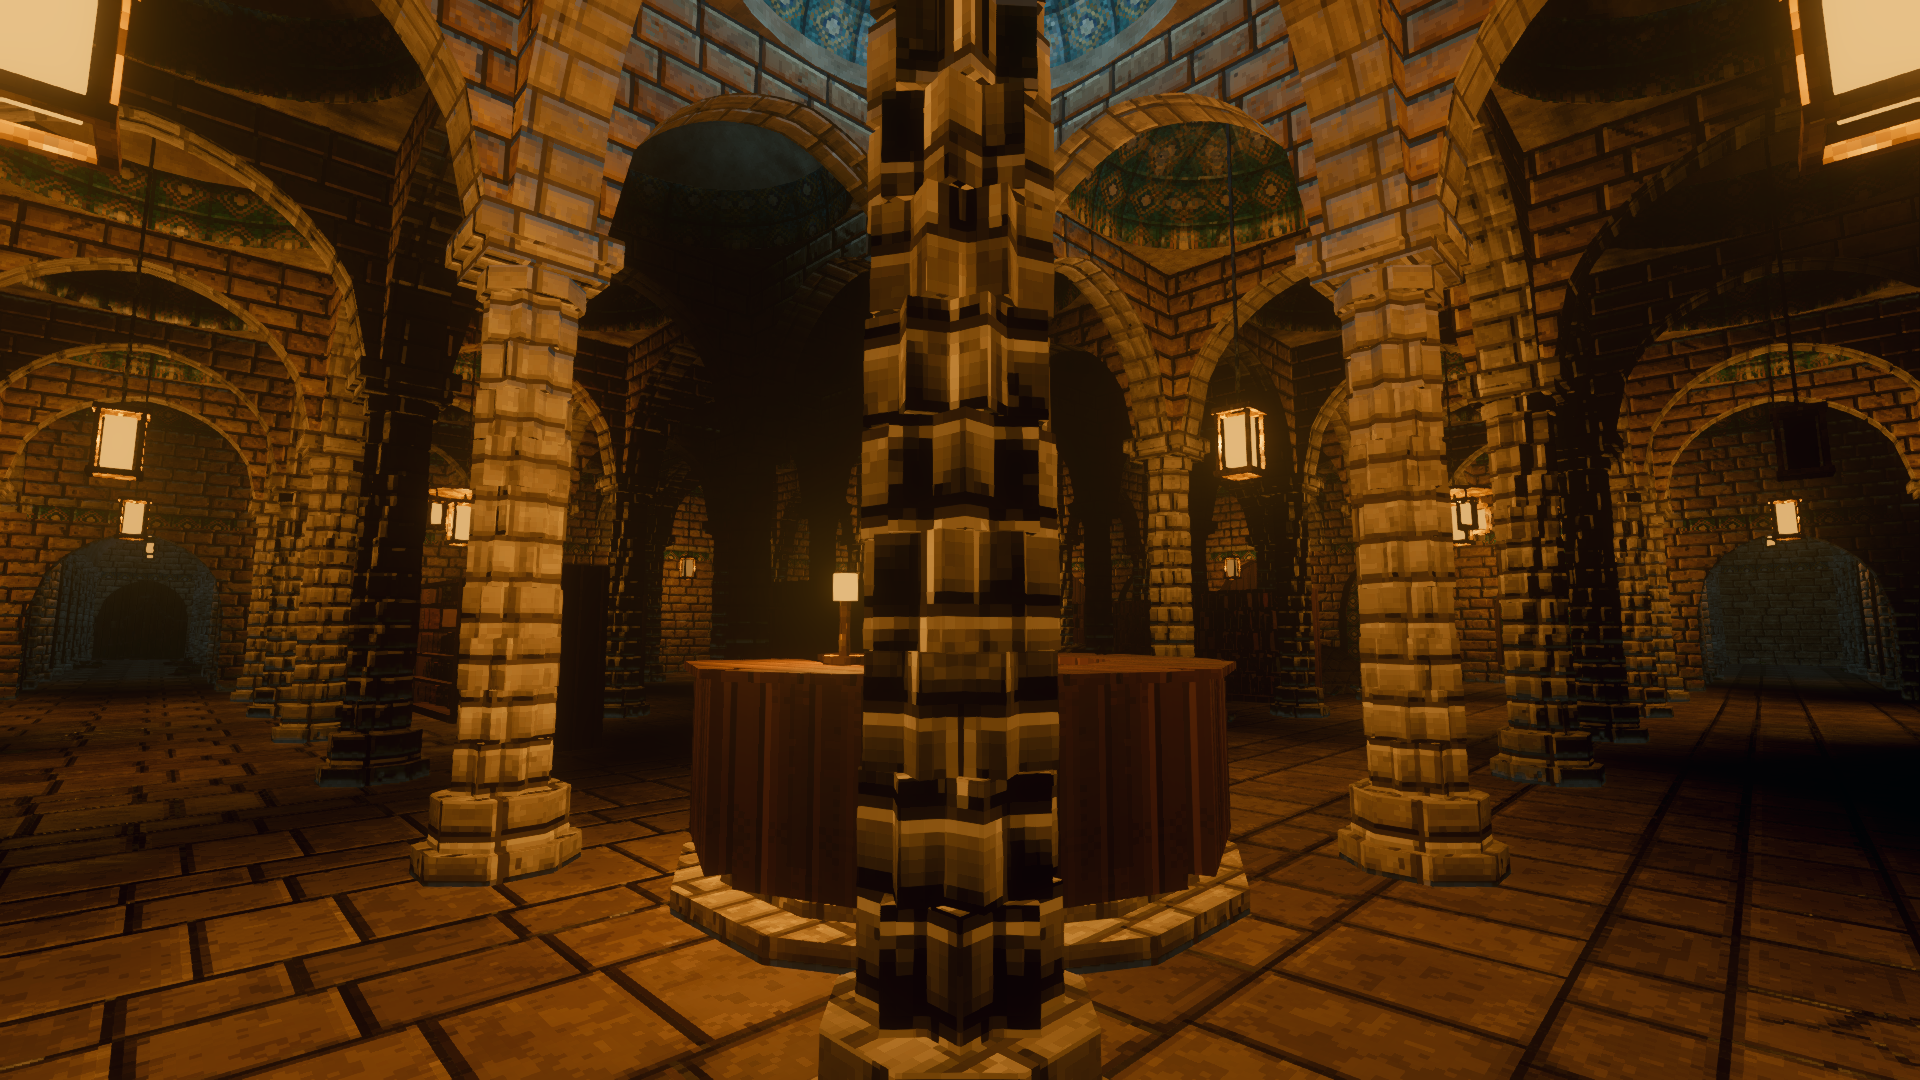
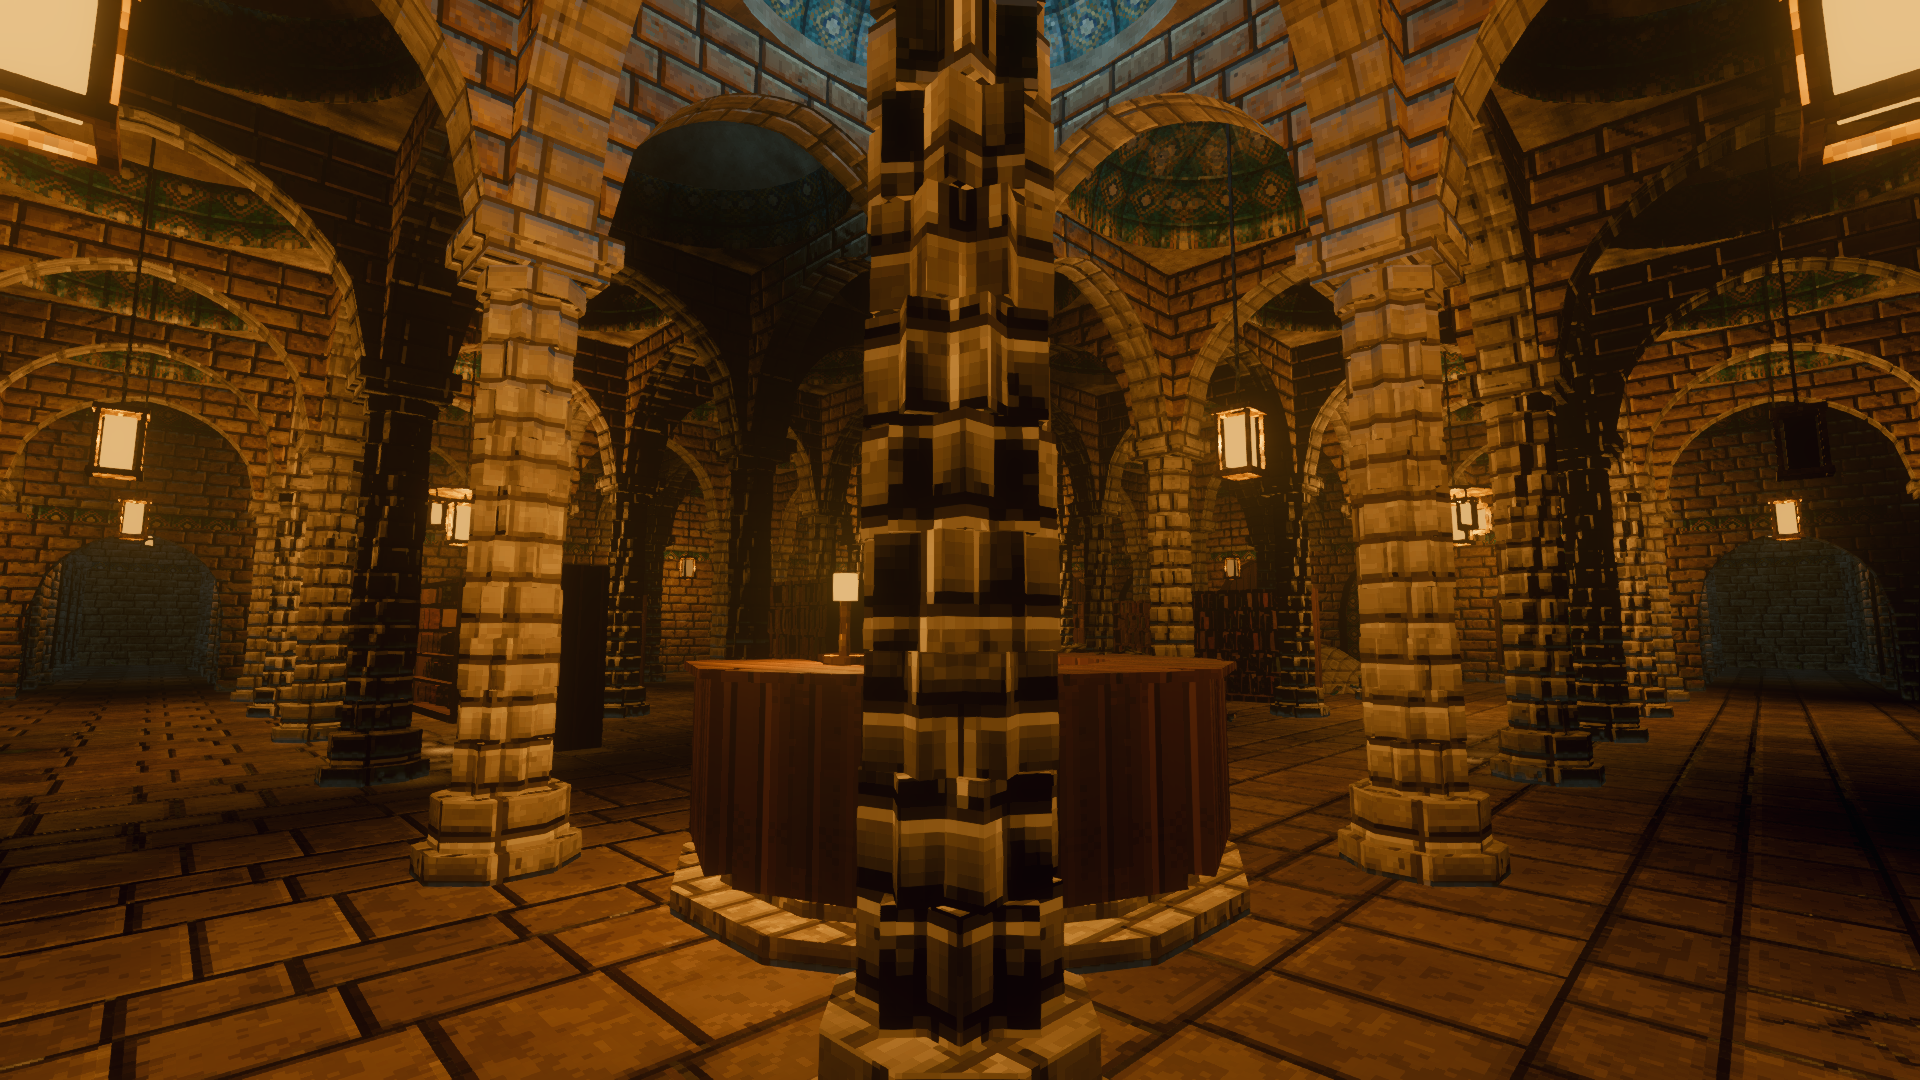
Brighten the cistern's water and set its ripples moving
After the walk: the Reading Garden's water shader gains murk_depth,
surface_tint and glow (defaults = the garden's old values, so the garden is
unchanged); the cistern's water sets clearer, lighter values and a slow
drift, and the Area runs its clock. The persistence test picks its far
gallery as stream_test does (a pinned cistern's gallery counts as a leaf).
Step 2's pictures retaken with the lamp clusters' real light.

diff --git a/docs/environment/progress/phase-5-kit-breadth.md b/docs/environment/progress/phase-5-kit-breadth.md
@@ -2,8 +2,8 @@
 
 [Back to the front page](../../../ENVIRONMENT_PLAN.md) · Design: [approval brief](../phase-5-approval.md), [technical](../phase-5-design.md)
 
-**In short:** steps 1 to 3 are done and committed (the cistern's water is being
-brightened). A new area, the Lower Stacks, starts in a
+**In short:** steps 1 to 3 are done and committed (the cistern's water
+brightened after your walk). A new area, the Lower Stacks, starts in a
 generated Hypostyle hall: a grid of bays under small tiled domes on twisted
 columns, freestanding bookcases between them, and clear aisles from every
 door to a landmark under an oculus. Generated galleries lead off its doors.
@@ -15,7 +15,7 @@ book crates, under the Reading Garden's water.
 
 ---
 
-## Step 3: the Cistern Archive (done 2026-10-23, walked in the game by you and committed; the water too dark, being worked on)
+## Step 3: the Cistern Archive (done 2026-10-23, walked in the game by you and committed; the water brightened after your walk)
 
 **Try it:** Esc → **Walk the Lower Stacks** (or `-- --area=lower_stacks
 --area-seed=1`). One of the galleries off the hall leads to the cistern
@@ -126,16 +126,44 @@ frame gate ran with the real cluster lights.
 
 **Caveats, for your review:**
 
-- **The water's ripples are still.** The Reading Garden animates its water
-  from its own atmosphere script, which the Lower Stacks doesn't run; in the
-  cistern the ripples are frozen (still water suits a cistern, but a slow
-  shimmer would need a small driver).
-- **The cistern is dark away from its lanterns**, as the atlas has it; the
-  water shows mostly as glints and near the lanterns.
+- ~~The water's ripples are still~~ and ~~the water is too dark~~: fixed
+  after your walk (below).
 - **Changes you saved in the Lower Stacks while walking step 2 went stale**
   (the recipe is version 3 now): kept in the save, never applied, as the
   phase 4 design says.
 - The bronze door has no states yet, and the cistern has no side doors.
+
+### After your walk: the water (2026-10-23, you approved it; committed)
+
+You found the water too dark. The garden's shader turns water its deep
+tint once it is 0.6 m deep along the view, made for the garden's 0.2 m
+channel; the cistern's shallows are 0.5 m and its deep bays 1.6 m, so it was
+all deep tint, and its surface showed only a quarter of that tint.
+
+- **Three new settings on the garden's water shader**, their defaults the
+  garden's old values (so the garden is unchanged): `murk_depth` (0.6),
+  `surface_tint` (0.25) and `glow` (0, a faint glow of the tint where no lamp
+  reaches, the atlas's cool cistern ambient). The cistern's water sets 2.0,
+  0.45 and 0.025, with a lighter deep tint. (A glow of 0.08 made the water
+  milky; 0.025 keeps the bed and the depth.) Pictures: `previews/p5_step3/`.
+- **The ripples move:** the Area runs the cistern water's clock, as the
+  garden's atmosphere runs its own; a slow drift (`flow` 0.03 m/s).
+- **The persistence test picks its far gallery as the stream test does**
+  (the gallery a pinned cistern grows from counts as a leaf).
+- **Step 2's pictures retaken** with the clusters' real light
+  (`previews/p5_step2/r03_*_cluster.png` and the rest).
+
+Gates after the change: `persist_gate.sh` all nine processes pass;
+`r11_route_test` 46, `atmosphere_test` 9, `room_atmosphere_test` 32, camp
+`playtest` 43; 240-frame runs clean. **The frame gate: two of three runs
+pass; one failed by 0.01 ms** (8.01 against 8.00). Its slowest frames are
+not streaming: at the same two spots every run (turning into gallery 1, and
+back in the hall, where the draw calls jump from 181 to 406), two frames in
+a row cost 6–8 ms, the first sight of a lot of the area at once. All seven
+rooms are live there, so pinning the cistern isn't the cause; the area is
+simply bigger than step 2's (whose same spots cost 6.0–6.7 ms). The margin
+at the RTX 3060 estimate is now nil; a measurement on a real 3060 would
+settle it, and the light-well (step 4) will need its own answer.
 
 ---
 

diff --git a/ENVIRONMENT_PLAN.md b/ENVIRONMENT_PLAN.md
@@ -8,12 +8,13 @@ stand, what is waiting for you, and what changed lately. The detail is in
 
 | What | Read this | What to do |
 |---|---|---|
-| Nothing right now. I'm brightening the cistern's water (you found it too dark) and fixing the smaller issues found in step 3; then step 4, the light-well | [Phase 5 progress, step 3](docs/environment/progress/phase-5-kit-breadth.md) | Look at the water when I show it |
+| Nothing right now. Next is **phase 5 step 4**, the Light-Well Stair (a round shaft 3–6 storeys tall with a spiral stair and doorways to rooms on other floors) | [Phase 5 approval brief](docs/environment/phase-5-approval.md) | Say when to start step 4 |
 
 ## What's new
 
 | Date | Change |
 |---|---|
+| 2026-10-23 | **The cistern's water brightened** after your walk: clearer and lighter, its ripples moving (three new settings on the garden's water shader; the garden is unchanged). The frame gate now passes two runs in three, failing once by 0.01 ms, so there's no margin left at the RTX 3060 estimate ([progress](docs/environment/progress/phase-5-kit-breadth.md)). You approved it; committed. |
 | 2026-10-23 | **Phase 5 step 3 built:** one of the Lower Stacks' galleries leads to the Cistern Archive: brick piers in still water under brick domes, a causeway to a sealed bronze door, shallows you wade at half speed, deep water that stops you, platforms of book crates, and the Reading Garden's water. The cistern is pinned (built with the area) because it is too big to stream in within a frame; the frame gate passes three runs in a row. 128 lines of new grammar ([progress](docs/environment/progress/phase-5-kit-breadth.md)). Also fixed: step 2's lamp clusters had a lantern's light. You walked it: the water is too dark (being brightened). Committed. |
 | 2026-10-23 | **Phase 5 step 2 built:** the Lower Stacks' hall grows to 10 × 10 bays (40 m), with brass lamp clusters on every third dome and the odd collapsed bay (a heap of rubble under the shaft its dome left). A 10 × 10 hall runs at the base-spec target (four frame-gate runs in a row; 443 draw calls of 1,500), so the planned batching isn't needed. The streaming, frame and save tests now walk the Lower Stacks too ([progress](docs/environment/progress/phase-5-kit-breadth.md)). You walked it; collapsed bays stay dark, by your choice. Committed. |
 | 2026-10-22 | **Hall look settled:** the columns have 8 shallow flutes turning a third of a turn up the shaft (softened after the first try looked busy up close); the plaster domes are paler, with a tile band at the foot (`previews/p5_look/`, [progress](docs/environment/progress/phase-5-kit-breadth.md)). Your choices; committed. |
@@ -47,7 +48,7 @@ stand, what is waiting for you, and what changed lately. The detail is in
 | 2. Generated Stack Gallery (R02) | A seeded corridor off any R01 door; bakeable to a scene | ✅ Done 2026-10-20 |
 | 3. Props and persistence | Push and break props, take lore books, save and restore, aging lamps | ✅ Done 2026-10-20 |
 | 4. Areas and streaming | 6–10 connected rooms that load as you walk | ✅ Done 2026-10-22 |
-| **5. Kit breadth** | More room types, mostly from data | Approved 2026-10-22 (Q1–Q12 as recommended); steps 1–3 done; brightening the cistern's water |
+| **5. Kit breadth** | More room types, mostly from data | Approved 2026-10-22 (Q1–Q12 as recommended); steps 1–3 done; step 4 (the light-well) next |
 
 ## 10. Roadmap (each phase is a playable slice)
 
